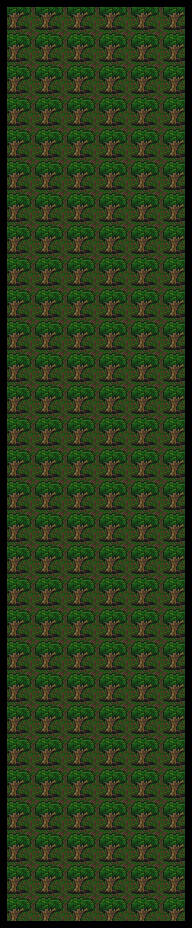
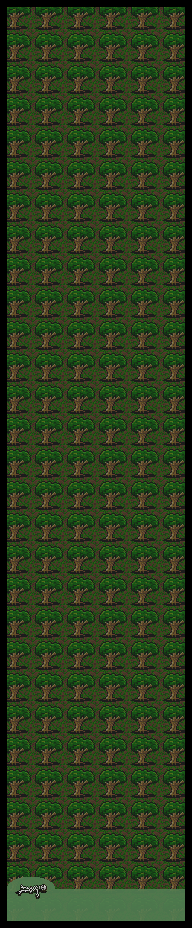
Add fertilizer costs and counter to UI

Changed region(s): [[0.0312, 0.9375, 0.9688, 1.0]]

diff --git a/core/src/wsuv/cs/PlayScreen.java b/core/src/wsuv/cs/PlayScreen.java
@@ -18,18 +18,18 @@ public class PlayScreen extends ScreenAdapter {
     private boolean DEBUG_pathfinding;
     private boolean DEBUG_borders;
 
-    // things that don't require logic
     private enum SubState {READY, GAME_OVER, PLAYING}
     private CSGame csGame;
     private HUD hud;
     private SubState state;
     private BitmapFont font;
+
     private int highScore;
     private int currentWave;
+
     private Terrain[] terrains;
     private Tile[][] grid;
     private int[][] setupGrid;
-
     private float timer;
     private float wave_time;
     private float time_between_spawns;
@@ -37,14 +37,19 @@ public class PlayScreen extends ScreenAdapter {
     private ArrayList<Logger> totalLoggers;
     private int loggerSpawnCount;
 
-    // things that require logic
     private ArrayList<Tower> towers;
     private ArrayList<FrogSpit> frogSpits;
+
     private ArrayList<CSButton> upgradeButtons;
+    private int[] upgradeCosts;
+    // this will probably be stored in each tower individually actually but
+    // that's for a future issue!
     private String[] upgradeButtonFuncs;
     private Tower towerBeingUpgraded;
     private ArrayList<CSButton> summonButtons;
+    private int[] summonCosts;
     private String[] summonButtonFuncs;
+    private int fertilizerCount;
 
     public PlayScreen(CSGame game) {
         timer = 0;
@@ -71,6 +76,7 @@ public class PlayScreen extends ScreenAdapter {
 
         bindButtons();
         towerBeingUpgraded = null;
+        fertilizerCount = 500; // for now
 
         // the HUD will show FPS always, by default.  Here's how
         // to use the HUD interface to silence it (and other HUD Data)
@@ -164,6 +170,8 @@ public class PlayScreen extends ScreenAdapter {
                 // first, see which button it hit (if any). towers are kind of buttons!
                 // if we click somewhere that isn't a button (and we aren't placing anything)
                 // then we should swap ensure we activate summon buttons.
+                // stupid coordinate system is backwards so lets fix that
+                screenY = 928-screenY;
                 CSButton buttonHit = null;
                 Tower towerHit = null;
                 String func = null;
@@ -307,11 +315,18 @@ public class PlayScreen extends ScreenAdapter {
             csGame.batch.draw(csGame.am.get(CSGame.RSC_BORDERS_IMG, Texture.class), 0, 0);
         }
         csGame.batch.draw(csGame.am.get(CSGame.RSC_BACKGROUNDUI_IMG, Texture.class), 928, 0);
+        font.draw(csGame.batch, Integer.toString(fertilizerCount), 1024, 28);
         for (CSButton upgradeButton : upgradeButtons) {
-            if (upgradeButton.isActive()) upgradeButton.draw(csGame.batch);
+            if (upgradeButton.isActive()) {
+                upgradeButton.draw(csGame.batch);
+                font.draw(csGame.batch, Integer.toString(upgradeCosts[upgradeButton.buttonNum]), upgradeButton.getX() + 100, upgradeButton.getY()+20);
+            }
         }
         for (CSButton summonButton : summonButtons) {
-            if (summonButton.isActive()) summonButton.draw(csGame.batch);
+            if (summonButton.isActive()) {
+                summonButton.draw(csGame.batch);
+                font.draw(csGame.batch, Integer.toString(summonCosts[summonButton.buttonNum]), summonButton.getX() + 100, summonButton.getY()+20);
+            }
         }
 
         hud.draw(csGame.batch);
@@ -517,10 +532,15 @@ public class PlayScreen extends ScreenAdapter {
                 csGame.am.get(CSGame.RSC_RANGEUPBUTTON_IMG, Texture.class),
                 csGame.am.get(CSGame.RSC_ATKSPDUPBUTTON_IMG, Texture.class),
         };
-        upgradeButtonFuncs = new String[]{
+        upgradeButtonFuncs = new String[] {
                 "upgradeHealth",
                 "upgradeRange",
                 "upgradeAtkSpd",
+        };
+        upgradeCosts = new int[] { // definitely just placeholders for now obviously
+                1,
+                2,
+                3,
         };
         final int NUM_BUTTONS_ON_SUMMON_SCREEN = 3;
         final Texture[] SUMMON_TEXTURES = new Texture[] {
@@ -528,18 +548,23 @@ public class PlayScreen extends ScreenAdapter {
                 csGame.am.get(CSGame.RSC_SUMMONBEESBUTTON_IMG, Texture.class),
                 csGame.am.get(CSGame.RSC_SUMMONTOWERBUTTON_IMG, Texture.class),
         };
-        summonButtonFuncs = new String[]{
+        summonButtonFuncs = new String[] {
                 "summonTree",
                 "summonBees",
                 "summonTower",
+        };
+        summonCosts = new int[] {
+                4,
+                5,
+                6,
         };
 
         final float WIDTH_OF_BUTTONS = 128;
         final float HEIGHT_OF_BUTTONS = 128;
         final float WIDTH_OF_TOTAL_BUTTON_AREA = 178; // -7 on each side
-        final float HEIGHT_OF_TOTAL_BUTTON_AREA = 914; // -7 on each side
+        final float HEIGHT_OF_TOTAL_BUTTON_AREA = 882; // -7 on each side -32 fertilizer count
         final float X_OF_BUTTON_AREA = 935; // game area + 7
-        final float Y_OF_BUTTON_AREA = 7; // 7 black bar
+        final float Y_OF_BUTTON_AREA = 39; // 7 black bar + 32 fertilizer count
         final float X_OF_BUTTONS = (X_OF_BUTTON_AREA + (WIDTH_OF_TOTAL_BUTTON_AREA/2) - (WIDTH_OF_BUTTONS/2));
         float yBetweenButtons;
         float yOfFirstButton;
